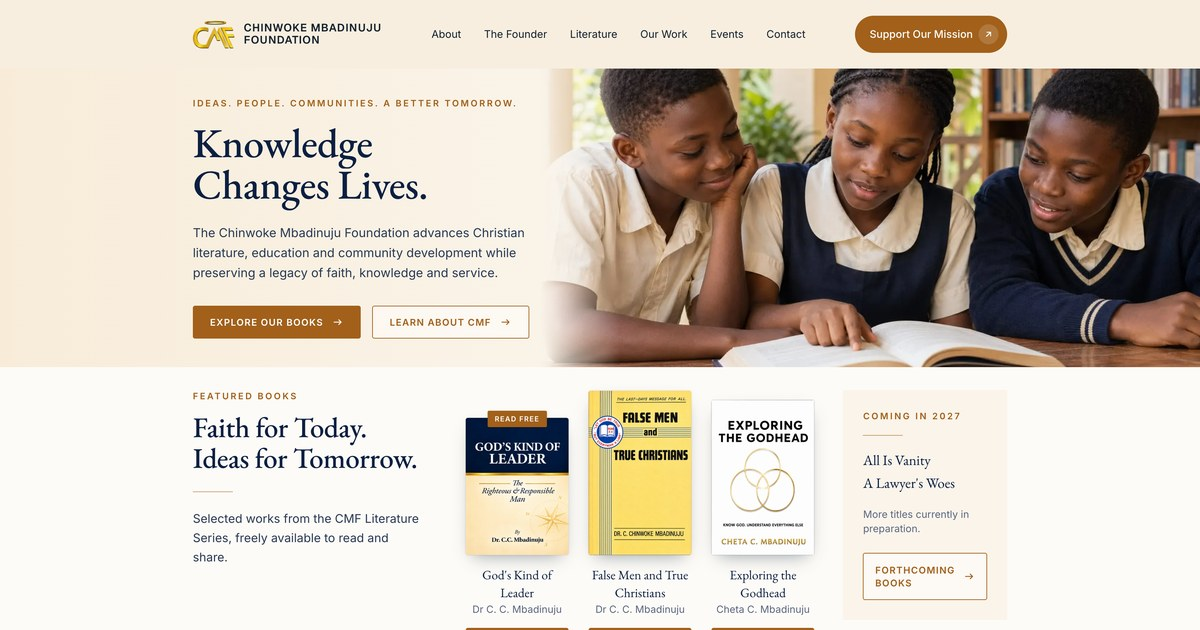
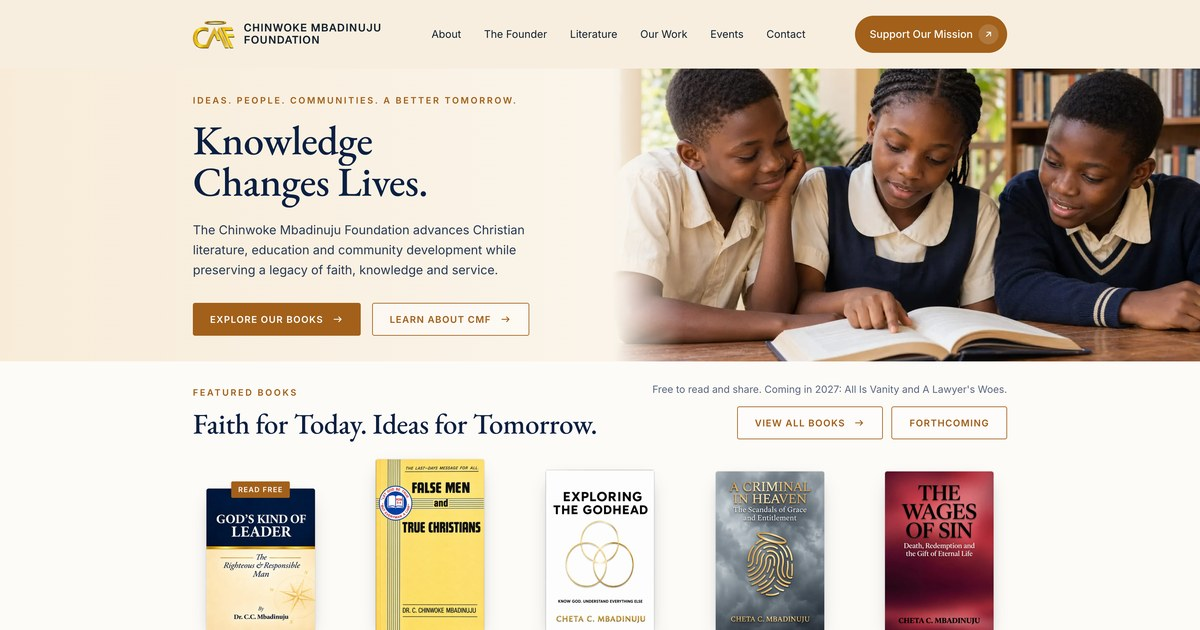
Balance hero photo size, five featured books, new Our Work and Events heroes, uncovered cover text

diff --git a/src/app/(site)/page.tsx b/src/app/(site)/page.tsx
@@ -4,7 +4,7 @@ import Link from "next/link";
 import { BookCover } from "@/components/book-cover";
 import { Icon } from "@/components/icons";
 import { SplitWords } from "@/components/motion/split-words";
-import { Button, GoldRule, IconPillars, PageHero, QuoteBlock } from "@/components/ui";
+import { Button, IconPillars, PageHero, QuoteBlock } from "@/components/ui";
 import { availableBooks, forthcomingBooks, getBook } from "@/lib/books";
 import { readableSlugs } from "@/lib/manuscripts";
 import { founder, quotes } from "@/lib/founder";
@@ -34,7 +34,7 @@ const organization = {
 };
 
 // Books that can be read online now come first; the rest of the row is filled from these.
-const featuredDefaults = ["false-men-and-true-christians", "exploring-the-godhead", "the-criminal-in-heaven"];
+const featuredDefaults = ["false-men-and-true-christians", "exploring-the-godhead", "the-criminal-in-heaven", "the-wages-of-sin", "the-present-truth"];
 
 // Section order follows the Foundation's home page design (../drive_assets/1 CMF Homepage 26.png).
 export default function Home() {
@@ -42,7 +42,7 @@ export default function Home() {
   const readable = readableSlugs();
   const featured = [...availableBooks.filter((b) => readable.includes(b.slug)), ...featuredDefaults.map((s) => getBook(s)!)]
     .filter((b, i, all) => all.findIndex((x) => x.slug === b.slug) === i)
-    .slice(0, 3);
+    .slice(0, 5);
 
   return (
     <>
@@ -66,64 +66,54 @@ export default function Home() {
       </PageHero>
 
       {/* Featured books */}
-      <section className="pt-12 pb-16 lg:pt-8 lg:pb-14">
-        <div className="wrap grid gap-12 lg:grid-cols-[1.4fr_2fr_0.9fr] lg:gap-10">
-          <div>
-            <p data-reveal="fade" className="eyebrow">
-              Featured books
-            </p>
-            <h2 data-reveal="words" className="display mt-3 text-[clamp(2.1rem,3.2vw,2.5rem)] leading-[1.08]">
-              <SplitWords>Faith for Today. Ideas for Tomorrow.</SplitWords>
-            </h2>
-            <GoldRule className="mt-6" />
-            <p data-reveal data-reveal-delay="200" className="mt-6 max-w-xs text-[1.05rem] leading-relaxed text-body">
-              Selected works from the CMF Literature Series, freely available to read and share.
-            </p>
-            <div data-reveal data-reveal-delay="300">
-              <Button href="/literature#library" variant="outline" className="mt-8">
-                View All Books
-              </Button>
+      <section className="pt-12 pb-16 lg:pt-7 lg:pb-16">
+        <div className="wrap">
+          <div className="flex flex-col gap-6 lg:flex-row lg:items-end lg:justify-between">
+            <div>
+              <p data-reveal="fade" className="eyebrow">
+                Featured books
+              </p>
+              <h2 data-reveal="words" className="display mt-3 text-[clamp(2.1rem,3.2vw,2.5rem)] leading-[1.08]">
+                <SplitWords>Faith for Today. Ideas for Tomorrow.</SplitWords>
+              </h2>
+            </div>
+            <div data-reveal data-reveal-delay="200" className="flex flex-col gap-3 lg:items-end lg:text-right">
+              <p className="text-sm leading-relaxed text-muted">
+                Free to read and share. Coming in 2027: {comingSoon.map((b) => b.title).join(" and ")}.
+              </p>
+              <div className="flex flex-wrap gap-3 lg:justify-end">
+                <Button href="/literature#library" variant="outline">
+                  View All Books
+                </Button>
+                <Button href="/literature?collection=forthcoming#library" variant="outline" icon={null}>
+                  Forthcoming
+                </Button>
+              </div>
             </div>
           </div>
 
-          <ul className="grid grid-cols-1 gap-8 sm:grid-cols-3 sm:gap-7">
-            {featured.map((b, i) => {
-              return (
-                <li key={b.slug} data-reveal data-reveal-delay={String(i * 100)} className="group flex h-full flex-col items-center text-center">
-                  {/* Covers differ in shape, so each sits on the baseline of the tallest (5:8). */}
-                  <Link href={`/read/${b.slug}`} className="flex aspect-[5/8] w-full max-w-[10rem] items-end" tabIndex={-1} aria-hidden="true">
-                    <span className="relative block w-full">
-                      <BookCover book={b} className="book-tilt w-full" />
-                      {readable.includes(b.slug) && (
-                        <span className="absolute -top-2.5 left-1/2 -translate-x-1/2 rounded-[2px] bg-bronze px-2.5 py-1 text-[0.62rem] font-semibold tracking-[0.1em] whitespace-nowrap text-white uppercase shadow">
-                          Read free
-                        </span>
-                      )}
-                    </span>
-                  </Link>
-                  <h3 className="mt-4 font-display text-lg leading-snug text-ink">{b.title}</h3>
-                  <p className="mb-4 text-sm text-muted">{b.author}</p>
-                  <Button href={`/read/${b.slug}`} icon={null} className="mt-auto w-full max-w-[10rem] px-3!">
-                    Read Now
-                  </Button>
-                </li>
-              );
-            })}
+          <ul className="mt-7 grid grid-cols-2 gap-x-6 gap-y-10 sm:grid-cols-3 lg:grid-cols-5 lg:gap-x-12">
+            {featured.map((b, i) => (
+              <li key={b.slug} data-reveal data-reveal-delay={String(i * 80)} className="group flex h-full flex-col items-center text-center">
+                {/* Covers differ in shape, so each sits on the baseline of the tallest (5:8). */}
+                <Link href={`/read/${b.slug}`} className="flex aspect-[5/8] w-full max-w-[9.5rem] items-end" tabIndex={-1} aria-hidden="true">
+                  <span className="relative block w-full">
+                    <BookCover book={b} className="book-tilt w-full" />
+                    {readable.includes(b.slug) && (
+                      <span className="absolute -top-2.5 left-1/2 -translate-x-1/2 rounded-[2px] bg-bronze px-2.5 py-1 text-[0.62rem] font-semibold tracking-[0.1em] whitespace-nowrap text-white uppercase shadow">
+                        Read free
+                      </span>
+                    )}
+                  </span>
+                </Link>
+                <h3 className="mt-4 font-display text-lg leading-snug text-ink">{b.title}</h3>
+                <p className="mb-4 text-sm text-muted">{b.author}</p>
+                <Button href={`/read/${b.slug}`} icon={null} className="mt-auto w-full max-w-[9.5rem] px-3!">
+                  Read Now
+                </Button>
+              </li>
+            ))}
           </ul>
-
-          <aside data-reveal="fade" data-reveal-delay="300" className="flex flex-col bg-blush p-7 lg:self-start">
-            <p className="eyebrow">Coming in 2027</p>
-            <GoldRule className="mt-4" />
-            <ul className="mt-5 space-y-1 font-display text-xl text-ink">
-              {comingSoon.map((b) => (
-                <li key={b.slug}>{b.title}</li>
-              ))}
-            </ul>
-            <p className="mt-5 text-sm text-muted">More titles currently in preparation.</p>
-            <Button href="/literature?collection=forthcoming#library" variant="outline" className="mt-6 w-full px-4! leading-snug">
-              Forthcoming Books
-            </Button>
-          </aside>
         </div>
       </section>
 

diff --git a/src/app/(site)/literature/page.tsx b/src/app/(site)/literature/page.tsx
@@ -52,7 +52,7 @@ export default function LiteraturePage() {
     <>
       {/* Hero: copy at the left, three covers standing on a warm shelf at the right */}
       <section className="relative overflow-hidden bg-gradient-to-r from-[#f8ecd9] via-blush to-blush">
-        <div className="wrap relative grid items-center gap-12 pt-14 pb-10 lg:grid-cols-[1.1fr_1fr] lg:pt-16 lg:pb-12">
+        <div className="wrap relative grid items-center gap-12 pt-14 pb-10 lg:grid-cols-[1fr_1.15fr] lg:gap-10 lg:pt-16 lg:pb-12">
           <div>
             <p data-reveal="fade" className="eyebrow">
               The CMF Literature Series
@@ -78,18 +78,18 @@ export default function LiteraturePage() {
           </div>
 
           <div data-reveal="fade" data-reveal-delay="200" className="group relative" aria-hidden="true">
-            <div className="relative flex items-end justify-center gap-[2.5%] px-1">
+            <div className="relative flex items-end justify-center gap-[3%] px-1 pt-10">
               <BookCover
                 book={heroBooks[0]}
-                className="w-[31%] shadow-[0_24px_40px_-22px_rgba(12,31,66,0.6)] transition-transform duration-700 ease-[cubic-bezier(0.16,1,0.3,1)] group-hover:-translate-x-2 group-hover:-rotate-2"
+                className="w-[30%] shadow-[0_24px_40px_-22px_rgba(12,31,66,0.6)] transition-transform duration-700 ease-[cubic-bezier(0.16,1,0.3,1)] group-hover:-translate-x-2 group-hover:-rotate-2"
               />
               <BookCover
                 book={heroBooks[1]}
-                className="z-10 w-[36%] shadow-[0_30px_50px_-22px_rgba(12,31,66,0.65)] transition-transform duration-700 ease-[cubic-bezier(0.16,1,0.3,1)] group-hover:-translate-y-2"
+                className="z-10 w-[37%] shadow-[0_30px_50px_-22px_rgba(12,31,66,0.65)] transition-transform duration-700 ease-[cubic-bezier(0.16,1,0.3,1)] group-hover:-translate-y-2"
               />
-              <div className="relative w-[31%] transition-transform duration-700 ease-[cubic-bezier(0.16,1,0.3,1)] group-hover:translate-x-2 group-hover:rotate-2">
+              <div className="relative w-[30%] transition-transform duration-700 ease-[cubic-bezier(0.16,1,0.3,1)] group-hover:translate-x-2 group-hover:rotate-2">
                 <BookCover book={heroBooks[2]} className="w-full shadow-[0_24px_40px_-22px_rgba(12,31,66,0.6)]" />
-                <span className="absolute inset-x-0 bottom-[1.5%] mx-auto w-fit rounded-[2px] bg-bronze px-3 py-1 text-[0.68rem] font-semibold tracking-[0.12em] text-white uppercase shadow-md">
+                <span className="absolute inset-x-0 bottom-full mx-auto mb-2.5 w-fit rounded-[2px] bg-bronze px-3 py-1.5 text-[0.7rem] font-semibold tracking-[0.12em] whitespace-nowrap text-white uppercase shadow-md">
                   Coming {heroBooks[2].year}
                 </span>
               </div>
@@ -99,7 +99,7 @@ export default function LiteraturePage() {
           </div>
         </div>
 
-        <div className="wrap relative grid items-center gap-10 border-t border-line/70 py-8 lg:grid-cols-[1.1fr_1fr]">
+        <div className="wrap relative grid items-center gap-10 border-t border-line/70 py-8 lg:grid-cols-[1.3fr_1fr]">
           <div data-reveal="fade">
             <GoldRule className="mb-5" />
             <ul className="flex flex-wrap gap-y-2 text-[0.72rem] font-medium tracking-[0.1em] text-ink uppercase" aria-label="Themes of the Series">

diff --git a/src/components/ui.tsx b/src/components/ui.tsx
@@ -76,9 +76,8 @@ export function Faq({ items }: { items: { q: string; a: string }[] }) {
 /**
  * Text on warm paper at the left; the photo fills the right of the hero, unframed, from top to
  * bottom and out to the edge of the screen, with a short soft edge where it meets the paper. `aside`
- * (a short quote) keeps its own space at the far right on wide screens, and the photo then softens
- * on both sides. `badge` is a label on the photo's lower right; `footer` holds a row of tags or a note
- * under the actions. With `as="h2"` it serves as a feature band further down a page. `compact` suits
+ * (a short quote) sits on a small card over the photo's lower right on wide screens. `badge` is a
+ * label in the same place; `footer` holds a row of tags or a note under the actions. With `as="h2"` it serves as a feature band further down a page. `compact` suits
  * long titles; `short` trims the height so the next section shows sooner.
  */
 export function PageHero({
@@ -106,7 +105,7 @@ export function PageHero({
   compact?: boolean;
   short?: boolean;
 }) {
-  const height = short ? "py-12 lg:min-h-[25rem] lg:py-10" : `py-14 lg:py-20 ${Tag === "h1" ? "lg:min-h-[33rem]" : "lg:min-h-[30rem]"}`;
+  const height = short ? "py-12 lg:min-h-[23rem] lg:py-9" : "py-14 lg:min-h-[29rem] lg:py-16";
   return (
     <section className="relative flex flex-col overflow-hidden bg-gradient-to-r from-[#f8ecd9] via-blush to-blush">
       <div className={`wrap relative z-10 lg:flex lg:items-center ${height}`}>
@@ -140,16 +139,12 @@ export function PageHero({
         </div>
       </div>
       <div
-        className={`relative aspect-[4/3] sm:aspect-[16/9] lg:absolute lg:inset-y-0 lg:right-0 lg:aspect-auto ${compact ? "lg:left-[49%]" : "lg:left-[45%]"} ${
-          aside ? "xl:right-[calc(max(2rem,(100vw-1140px)/2)+12rem)]" : ""
-        }`}
+        className={`relative aspect-[4/3] sm:aspect-[16/9] lg:absolute lg:inset-y-0 lg:right-0 lg:aspect-auto ${compact ? "lg:left-[54%]" : "lg:left-[51%]"}`}
       >
         <div
           data-reveal="fade"
           data-reveal-delay="150"
-          className={`absolute inset-0 [mask-image:linear-gradient(to_bottom,transparent,#000_10%)] lg:[mask-image:linear-gradient(to_right,transparent,#000_12%)] ${
-            aside ? "xl:[mask-image:linear-gradient(to_right,transparent,#000_12%,#000_88%,transparent)]" : ""
-          }`}
+          className="absolute inset-0 [mask-image:linear-gradient(to_bottom,transparent,#000_10%)] lg:[mask-image:linear-gradient(to_right,transparent,#000_12%)]"
         >
           <Image
             src={image.src}
@@ -168,10 +163,12 @@ export function PageHero({
         )}
       </div>
       {aside && (
-        <div className="absolute inset-y-0 right-[max(2rem,calc((100vw-1140px)/2))] z-10 hidden w-[11rem] items-center xl:flex">
-          <div data-reveal="fade" data-reveal-delay="500">
-            {aside}
-          </div>
+        <div
+          data-reveal="fade"
+          data-reveal-delay="500"
+          className="absolute right-[max(2rem,calc((100vw-1140px)/2))] bottom-8 hidden max-w-[15rem] rounded-[3px] bg-paper/95 px-6 py-5 shadow-[0_18px_40px_-24px_rgba(12,31,66,0.55)] xl:block [&_.pull-quote]:text-[1.2rem]"
+        >
+          {aside}
         </div>
       )}
     </section>

diff --git a/src/app/(site)/our-work/page.tsx b/src/app/(site)/our-work/page.tsx
@@ -18,7 +18,7 @@ const initiativeImages: Record<string, string> = {
   "Education Support": "/images/generated/education-support.jpg",
   "Community Projects": "/images/stock/seedling-hands.jpg",
   "Free Literature Distribution": "/images/generated/book-distribution.jpg",
-  "Sustainable Community Infrastructure": "/images/clean-water-handwashing.jpg",
+  "Sustainable Community Infrastructure": "/images/cmf-water-project.jpg",
 };
 
 const pillarLinks = ["Visit the Literature Series", "Learn more", "Learn more", "Learn more"];
@@ -33,7 +33,7 @@ export default function OurWorkPage() {
         eyebrow="Our work"
         short
         title="From Ideas to Lasting Impact."
-        image={{ src: "/images/cmf-water-project.jpg", alt: "A CMF community water project: a row of taps along a newly built wall, dressed in green ribbon for its opening", position: "45% 78%" }}
+        image={{ src: "/images/clean-water-handwashing.jpg", alt: "A girl washing her hands at a clean water tap as her mother looks on", position: "60% center" }}
         aside={<QuoteBlock text={service.text} by={founder.name} />}
         actions={
           <>

diff --git a/src/app/(site)/support/page.tsx b/src/app/(site)/support/page.tsx
@@ -57,20 +57,7 @@ export default function SupportPage() {
         eyebrow="Support the mission"
         title="Invest in A Better Tomorrow."
         image={{ src: "/images/stock/seedling-hands.jpg", alt: "Hands cupping a young seedling in dark soil", position: "center 40%" }}
-        aside={
-          <>
-            <QuoteBlock text={<>Give, and it shall be given unto you&hellip;</>} by="Luke 6:38 (KJV)" />
-            <GoldRule className="mt-6 w-10" />
-            <p className="mt-5 font-display text-xl leading-snug text-bronze italic">
-              Ideas.
-              <br />
-              People.
-              <br />
-              Communities.
-              <br />A Better Tomorrow.
-            </p>
-          </>
-        }
+        aside={<QuoteBlock text={<>Give, and it shall be given unto you&hellip;</>} by="Luke 6:38 (KJV)" />}
         actions={
           <>
             <Button href={give}>Give Now</Button>

diff --git a/src/components/book-card.tsx b/src/components/book-card.tsx
@@ -19,9 +19,6 @@ export function BookCard({ book, readable = false }: { book: Book; readable?: bo
       {forthcoming ? (
         <div className="relative flex aspect-[5/8] items-end">
           {cover}
-          <span className="absolute inset-x-0 bottom-3 mx-auto w-fit rounded-[2px] bg-bronze px-2.5 py-1 text-[0.68rem] font-semibold tracking-[0.1em] text-white uppercase shadow">
-            Coming {book.year ?? "soon"}
-          </span>
         </div>
       ) : (
         <Link href={href} tabIndex={-1} aria-hidden="true" className="flex aspect-[5/8] items-end">

diff --git a/src/app/(site)/events/page.tsx b/src/app/(site)/events/page.tsx
@@ -22,7 +22,7 @@ export default function EventsPage() {
       <PageHero
         eyebrow="Events & engagement"
         title="Where the Mission Comes Together."
-        image={{ src: "/images/stock/launch-hall.jpg", alt: "Guests gathered in a hall for a book presentation" }}
+        image={{ src: "/images/generated/literature-launch.jpg", alt: "A speaker at a lectern addressing guests at a CMF book presentation", position: "40% center" }}
         actions={
           <>
             <Button href="#upcoming">Upcoming Events</Button>

diff --git a/PROJECT_STATUS.md b/PROJECT_STATUS.md
@@ -222,3 +222,10 @@ See `update needed.md` for the existing book-by-book and image-placement checkli
   - "View Gallery" opens `/founder/gallery`: 50 photos with a full-size viewer that has previous, next, Escape and arrow-key controls.
   - Three frames remain empty: 1945, Early Life, and Faith & Ministry.
 - **Repository size:** the two PDFs add about 82 MB (the largest file is 62 MB, under GitHub's 100 MB limit).
+
+## Hero size, five featured books and image swaps — October 26, 2026
+
+- **Heroes:** the unboxed photo now starts at about the middle of the hero (51%, or 54% for long titles) with a slightly shorter hero, so it is bigger than the boxed version but no longer dominates. Quotes on Our Work, Support and Contact sit on a small card over the photo's lower right, so the photo no longer fades on both sides.
+- **Home:** Featured Books shows five books in a spaced row under the heading (readable titles first, marked "Read free"); "Coming in 2027" is a short line beside the heading with a Forthcoming button. All five covers show on the first screen at 1440 × 900; titles and buttons too at 1920 × 1080.
+- **Images:** Our Work's hero is the clean-water photo (`clean-water-handwashing.jpg`); the Foundation's own water project photo moved to the "Sustainable Community Infrastructure" card. Events' hero is `generated/literature-launch.jpg`.
+- **Literature:** larger hero covers; the "Coming 2027" tag sits above All Is Vanity, and library cards no longer put a tag on the cover (the card text already says when a title is coming).
